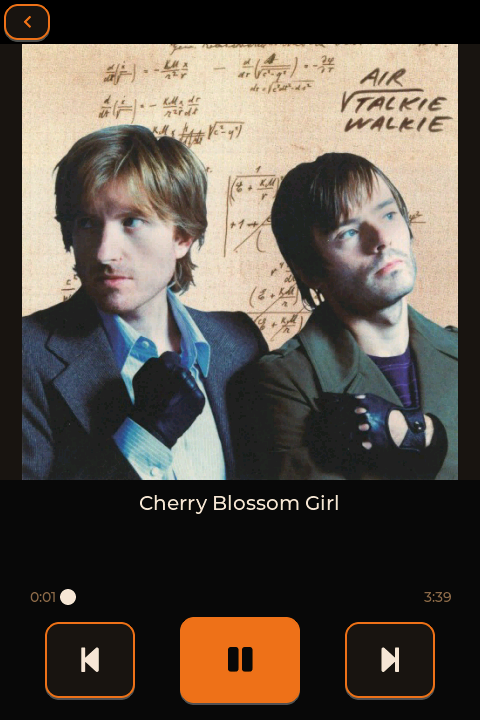
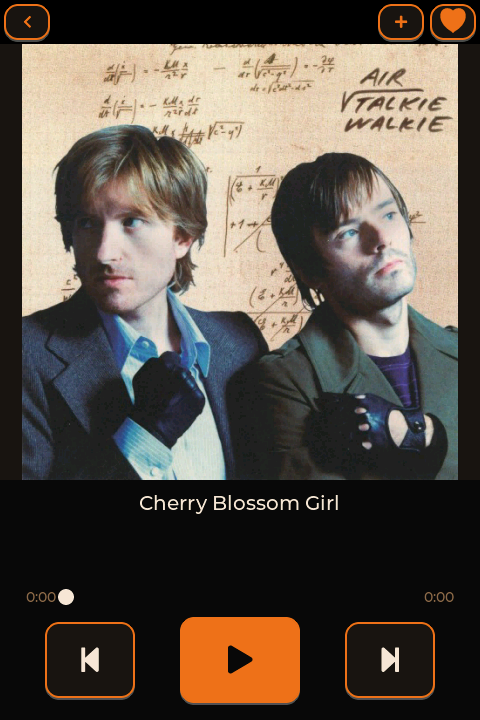
docs: add playlists/sharing screenshots + feature section to README

diff --git a/README.md b/README.md
@@ -23,6 +23,8 @@ for this one model.
 | <img src="docs/screenshots/home.png" width="220"> | <img src="docs/screenshots/nowplaying.png" width="220"> | <img src="docs/screenshots/library.png" width="220"> |
 | **Settings** | **Watch face (idle)** | |
 | <img src="docs/screenshots/settings.png" width="220"> | <img src="docs/screenshots/watchface.png" width="220"> | |
+| **Playlists & nearby devices** | **Import a shared playlist** | **New playlist** |
+| <img src="docs/screenshots/playlists.png" width="220"> | <img src="docs/screenshots/sharing.png" width="220"> | <img src="docs/screenshots/newplaylist.png" width="220"> |
 
 ---
 
@@ -51,6 +53,13 @@ for this one model.
 - **Game controllers** over Bluetooth (Joy-Con, Pro Controller, DS4, 8BitDo…) via UserspaceHID;
   a paired controller auto-reconnects when you press a button.
 - Battery of connected BT devices shown in the status bar / settings.
+
+**Playlists & favorites**
+- One-tap **♥ favorite** on Now Playing, plus user **playlists** created with an on-screen keyboard.
+- Stored as portable **extended `.m3u`** files in `Playlists/` on the card (edit them on a PC too).
+- **Share over the LAN:** nearby R3s are discovered automatically; browse another device's
+  playlists and **import** one — songs you already have resolve locally, and the ones you're
+  missing are copied from the peer **after you confirm**.
 
 **Wi-Fi & music server**
 - Wi-Fi settings; **r3srv**, a UPnP/DLNA + HTTP server that serves your library (incl. album art)
